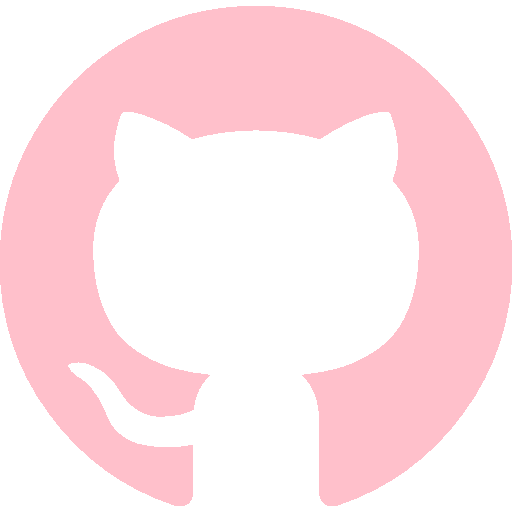
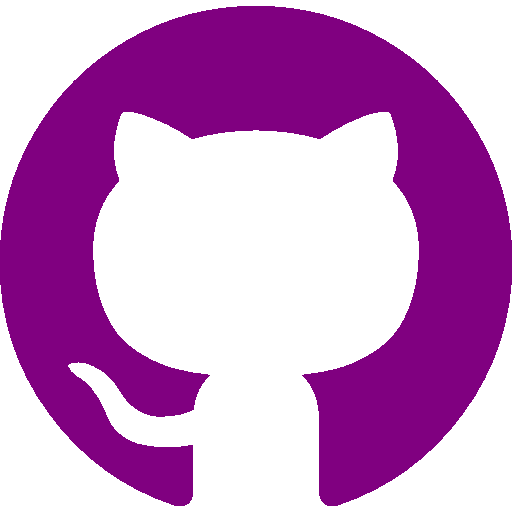
phone

diff --git a/src/App.js b/src/App.js
@@ -3,19 +3,19 @@ import styled from 'styled-components'
 import './App.css'
 
 const Title = styled.h1`
-font-family: 'Poppins', sans-serif;
+font-family: Poppins, sans-serif;
 font-weight: 700
 padding: 0
 margin: 0
-font-size: 8rem
+font-size: 5rem
 opacity: 1`
 
 const Title2 = styled.h1`
-font-family: 'Poppins', sans-serif;
-font-weight: 700
+font-family:  sans-serif;
+font-weight: 200
 padding: 0
-margin-top: 50px
-font-size: 3.5rem
+margin: 0
+font-size: 2.75rem
 opacity: 1`
 
 const SubTitle = styled.h3`
@@ -26,7 +26,7 @@ color: #262626
 font-family: sans-serif
 font-weight: 300
 &:hover {
-  color: pink
+  color: purple
   cursor: pointer
 }
 opacity: .85
@@ -34,20 +34,20 @@ opacity: .85
 
 const TitleDiv = styled.div`
 padding: 5px
-color: white
 opacity: .9
-text-shadow: 1.5px 1.5px #262626
 `
 
 const Div1 = styled.div`
+box-sizing: border-box
 height: 100vh
 padding: 50px
 background: white`
 
 const Div2 = styled.div`
+box-sizing: border-box
 height: 100vh
 padding: 50px
-background: rgb(161,161,161)`
+background: rgb(222,222,222)`
 
 const Icons = styled.div`
 position: fixed

diff --git a/src/App.css b/src/App.css
@@ -1,6 +1,6 @@
 .App {
   text-align: center;
-  background: url('./assets/birds-unsplash.jpg');
+  background: url('./assets/phone.jpg');
   background-size: contain;
   background-color: #262626;
   margin: 0;
@@ -16,7 +16,7 @@ flex-direction: column;
 align-items: center;
 justify-content: center;
 height: 100vh;
-background-color: rgba(100,100,100, 0.6);
+background-color: rgba(100,100,100, 0.2);
 margin: 0;
 }
 
